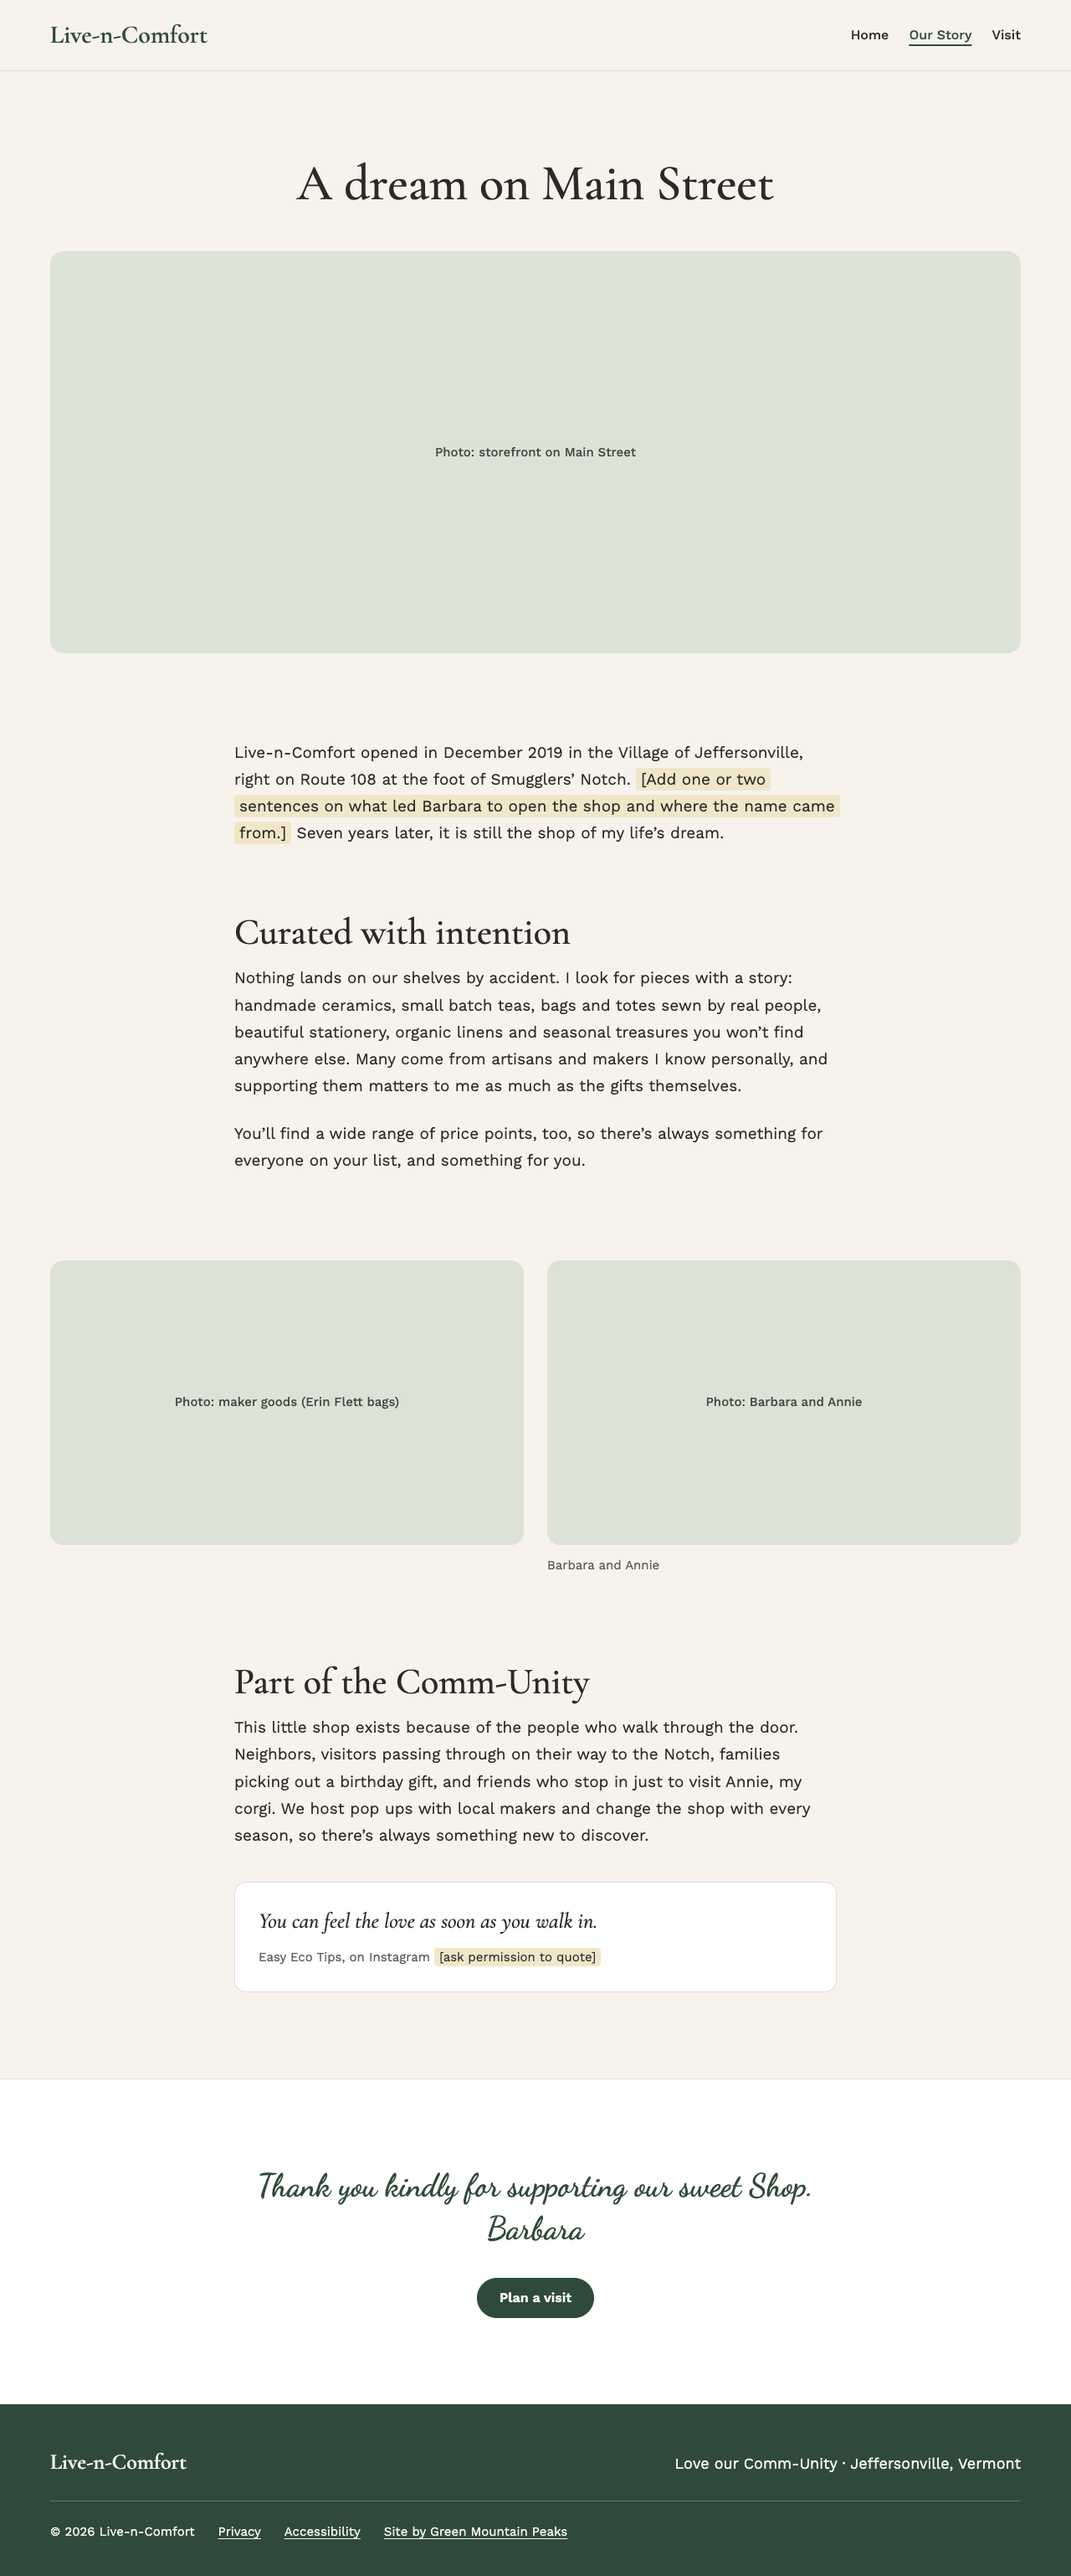
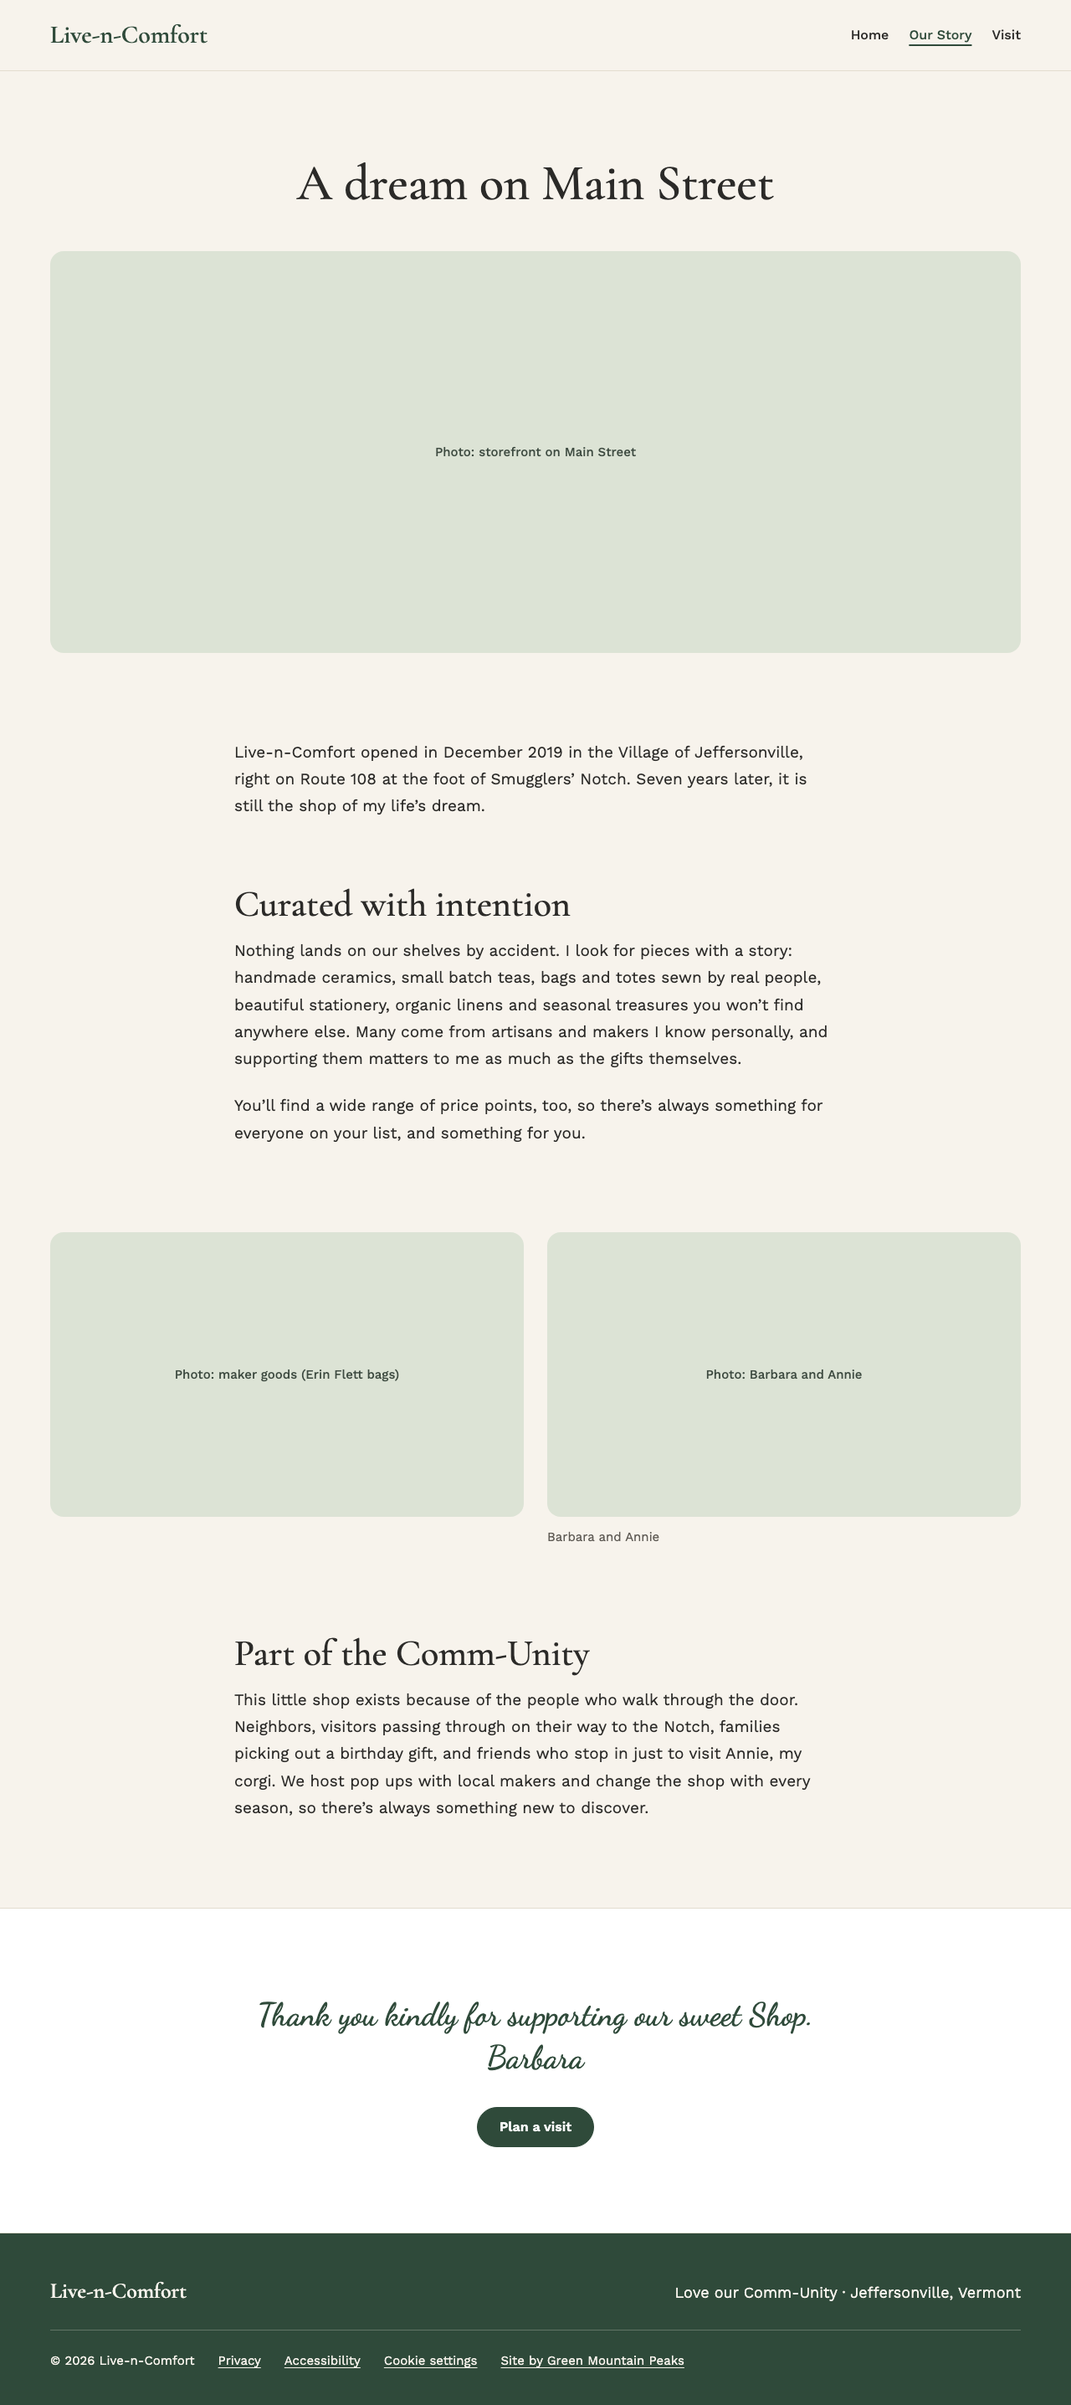
Remove live placeholders, add share image, llms.txt and richer store structured data

diff --git a/public/our-story/index.html b/public/our-story/index.html
@@ -21,6 +21,17 @@
   <meta property="og:locale" content="en_US">
   <meta name="twitter:card" content="summary_large_image">
   <script src="/js/site.js?v=2" defer></script>
+  <script type="application/ld+json">
+  {
+    "@context": "https://schema.org",
+    "@type": "AboutPage",
+    "@id": "https://livencomfort.com/our-story/#webpage",
+    "url": "https://livencomfort.com/our-story/",
+    "name": "Our Story | Live-n-Comfort, Jeffersonville VT",
+    "isPartOf": { "@id": "https://livencomfort.com/#website" },
+    "about": { "@id": "https://livencomfort.com/#store" }
+  }
+  </script>
 </head>
 <body>
   <a class="skip-link" href="#main">Skip to main content</a>
@@ -53,7 +64,7 @@
     <section class="section section--tight-top">
       <div class="container">
         <div class="prose">
-          <p>Live-n-Comfort opened in December 2019 in the Village of Jeffersonville, right on Route 108 at the foot of Smugglers’ Notch. <span class="confirm">[Add one or two sentences on what led Barbara to open the shop and where the name came from.]</span> Seven years later, it is still the shop of my life’s dream.</p>
+          <p>Live-n-Comfort opened in December 2019 in the Village of Jeffersonville, right on Route 108 at the foot of Smugglers’ Notch. Seven years later, it is still the shop of my life’s dream.</p>
           <h2>Curated with intention</h2>
           <p>Nothing lands on our shelves by accident. I look for pieces with a story: handmade ceramics, small batch teas, bags and totes sewn by real people, beautiful stationery, organic linens and seasonal treasures you won’t find anywhere else. Many come from artisans and makers I know personally, and supporting them matters to me as much as the gifts themselves.</p>
           <p>You’ll find a wide range of price points, too, so there’s always something for everyone on your list, and something for you.</p>
@@ -82,12 +93,6 @@
         <div class="prose">
           <h2>Part of the Comm-Unity</h2>
           <p>This little shop exists because of the people who walk through the door. Neighbors, visitors passing through on their way to the Notch, families picking out a birthday gift, and friends who stop in just to visit Annie, my corgi. We host pop ups with local makers and change the shop with every season, so there’s always something new to discover.</p>
-          <figure class="quote-card">
-            <blockquote>
-              <p>You can feel the love as soon as you walk in.</p>
-            </blockquote>
-            <figcaption>Easy Eco Tips, on Instagram <span class="confirm">[ask permission to quote]</span></figcaption>
-          </figure>
         </div>
       </div>
     </section>

diff --git a/docs/og-card/og-card.html b/docs/og-card/og-card.html
@@ -1,0 +1,63 @@
+<!doctype html>
+<html lang="en">
+<head>
+  <meta charset="utf-8">
+  <meta name="viewport" content="width=1200, initial-scale=1">
+  <title>Live-n-Comfort share card</title>
+  <!--
+    Source for public/images/og-image.jpg (1200 x 630). Not published.
+    Interim text card until there is a storefront photo.
+    Render: headless Google Chrome at 1200 x 630, then convert the PNG to JPG with sips.
+  -->
+  <style>
+    @font-face {
+      font-family: "Cormorant Garamond";
+      font-weight: 600;
+      src: url("../../public/fonts/cormorant-garamond-latin-600-normal.woff2") format("woff2");
+    }
+    @font-face {
+      font-family: "Work Sans";
+      font-weight: 400;
+      src: url("../../public/fonts/work-sans-latin-400-normal.woff2") format("woff2");
+    }
+    :root {
+      --accent: #2F4A3A;
+      --bg: #F7F3EC;
+    }
+    html, body {
+      margin: 0;
+      width: 1200px;
+      height: 630px;
+      overflow: hidden;
+      background: var(--accent);
+    }
+    body {
+      display: flex;
+      flex-direction: column;
+      align-items: center;
+      justify-content: center;
+      gap: 28px;
+      color: var(--bg);
+      text-align: center;
+    }
+    h1 {
+      margin: 0;
+      font-family: "Cormorant Garamond", serif;
+      font-weight: 600;
+      font-size: 136px;
+      line-height: 1;
+    }
+    p {
+      margin: 0;
+      font-family: "Work Sans", sans-serif;
+      font-weight: 400;
+      font-size: 34px;
+      line-height: 1.3;
+    }
+  </style>
+</head>
+<body>
+  <h1>Live-n-Comfort</h1>
+  <p>Gifts and stationery on Main Street, Jeffersonville, Vermont</p>
+</body>
+</html>

diff --git a/public/index.html b/public/index.html
@@ -61,7 +61,19 @@
         "founder": { "@type": "Person", "name": "Barbara" },
         "foundingDate": "2019-12",
         "priceRange": "$$",
-        "hasMap": "https://www.google.com/maps/search/?api=1&query=Live-n-Comfort+143+Main+Street+Jeffersonville+VT"
+        "hasMap": "https://www.google.com/maps/search/?api=1&query=Live-n-Comfort+143+Main+Street+Jeffersonville+VT",
+        "alternateName": "Live N Comfort",
+        "containedInPlace": { "@type": "Place", "name": "Cambridge, Vermont" },
+        "hasOfferCatalog": {
+          "@type": "OfferCatalog",
+          "name": "What you'll find on our shelves",
+          "itemListElement": [
+            { "@type": "OfferCatalog", "name": "Handmade artisan goods", "description": "Ceramics, teas, bags and totes" },
+            { "@type": "OfferCatalog", "name": "Stationery", "description": "Cards, calendars and journals" },
+            { "@type": "OfferCatalog", "name": "Organic linens" },
+            { "@type": "OfferCatalog", "name": "Seasonal gifts" }
+          ]
+        }
       },
       {
         "@type": "WebSite",

diff --git a/README.md b/README.md
@@ -87,16 +87,17 @@ Update every one of these when the hours change:
 2. `public/index.html`, JSON-LD in the `<head>` (`openingHoursSpecification`, 24 hour times)
 3. `public/visit/index.html`, Hours card (the `<dl class="hours">` list; the line below it about holiday and seasonal hours on Instagram and Facebook stays)
 
+4. `public/llms.txt`, Visit section
+
+`public/llms.txt` is a short plain-language summary of the shop for AI assistants and answer engines (live at https://livencomfort.com/llms.txt). It uses only facts already on the site; keep it in step with the hours and address.
+
 Current hours (confirmed by Barbara): Wednesday to Saturday 11 am to 4 pm; Sunday 10 am to 3 pm; Monday and Tuesday closed.
 
 ## Placeholders to replace
 
-Text waiting for Barbara (highlighted on the page, `<span class="confirm">`):
+There are no text placeholders on the live pages right now. New ones go in a `<span class="confirm">` so they are highlighted on the page.
 
-| Page | File | Placeholder |
-|---|---|---|
-| Our Story | `public/our-story/index.html` | [Add one or two sentences on what led Barbara to open the shop and where the name came from.] |
-| Our Story | `public/our-story/index.html` | [ask permission to quote] (Easy Eco Tips quote) |
+The Easy Eco Tips quote on Our Story was removed pending permission to quote it. It can be restored from commit ca47fc8 (`public/our-story/index.html`, the `<figure class="quote-card">` block).
 
 Photo slots (green boxes, each marked with a `<!-- PHOTO: ... -->` comment). Sizes, export settings and how to add them are in `docs/images.md`.
 
@@ -114,6 +115,7 @@ Photo slots (green boxes, each marked with a `<!-- PHOTO: ... -->` comment). Siz
 
 ## Still to add
 
-- `public/images/og-image.jpg` (1200 x 630). Every page already points to it for social sharing, so links shared before it exists will show no image.
-- `image` and `telephone` in the Store JSON-LD on the Home page, once there is a shop photo and a confirmed phone number.
+- `public/images/og-image.jpg` (1200 x 630) is an interim text card, built from `docs/og-card/og-card.html` with headless Chrome and sips. Replace it with a storefront photo using the same file name, so no page needs to change.
+- `image` in the Store JSON-LD on the Home page: add it only with that real storefront photo, not the text card.
+- `telephone` in the Store JSON-LD on the Home page, once there is a confirmed phone number.
 - An apple touch icon (`apple-touch-icon.png`, 180 x 180) once there is a logo.
